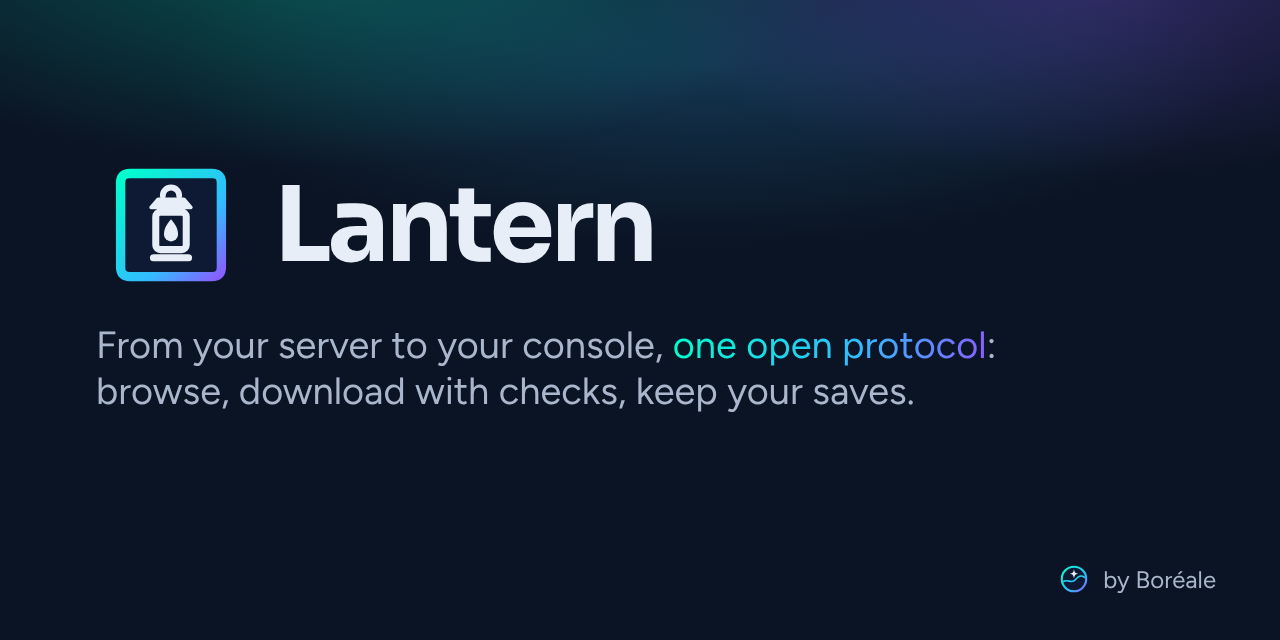
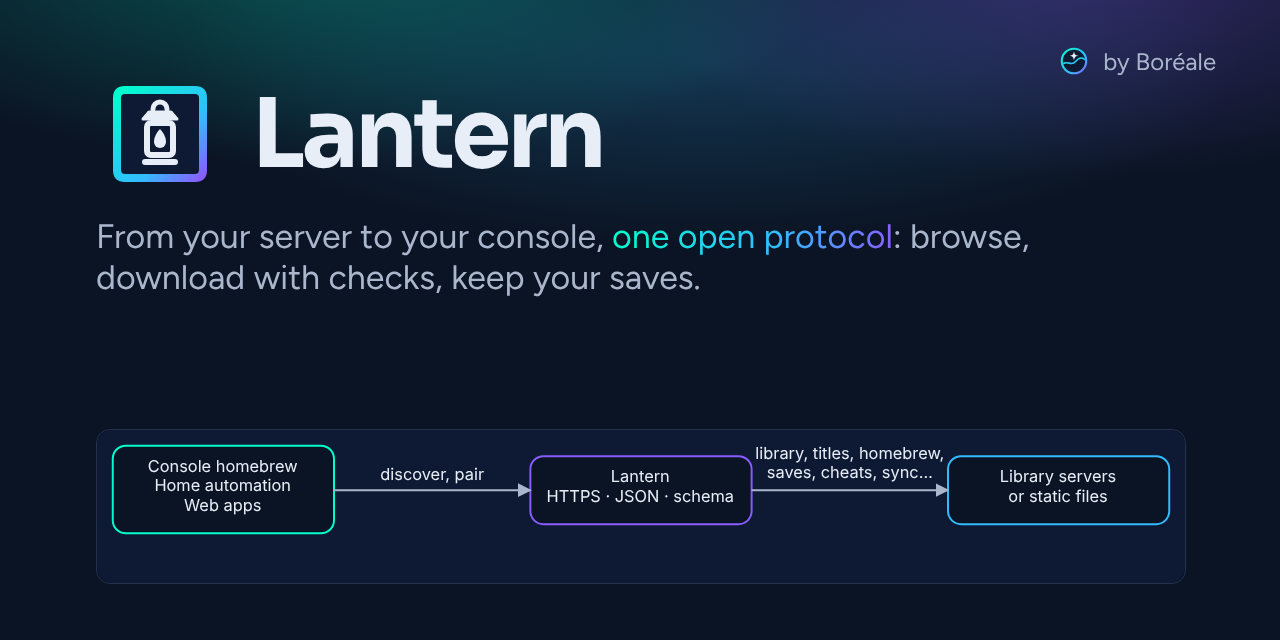
feat(site): put the overview figure in the social preview (#26)
The image of a shared link shows the protocol's three parts (apps, Lantern, library servers) under the title, instead of the sentence alone; site/README.md says how the PNG is made again.

diff --git a/site/social-preview.html b/site/social-preview.html
@@ -3,14 +3,15 @@
 @font-face{font-family:Figtree;src:url("../library/boreale-site/assets/fonts/figtree.woff2")}
 body{margin:0;width:1280px;height:640px;background:#0b1424;color:#e8eef7;font-family:Figtree;overflow:hidden;position:relative}
 .bg{position:absolute;inset:0;background:radial-gradient(70% 60% at 25% -10%,rgba(0,255,204,.28),transparent 60%),radial-gradient(60% 55% at 85% -5%,rgba(138,92,255,.3),transparent 60%),radial-gradient(60% 40% at 55% 10%,rgba(51,187,255,.2),transparent 70%)}
-.c{position:absolute;left:96px;top:150px;display:grid;gap:22px}
+.c{position:absolute;left:96px;top:70px;display:grid;gap:18px}
 .row{display:flex;align-items:center;gap:28px}
-img{width:150px;height:150px}
-h1{font:700 104px Sora;letter-spacing:-.04em;margin:0}
-p{font-size:38px;color:#a9b6cc;margin:0;max-width:1000px}
+.row img{width:128px;height:128px}
+h1{font:700 96px Sora;letter-spacing:-.04em;margin:0}
+p{font-size:34px;color:#a9b6cc;margin:0;max-width:1000px}
+.fig{position:absolute;left:96px;bottom:56px;width:1088px;height:auto;border-radius:14px;border:1px solid #22324f}
 em{font-style:normal;background:linear-gradient(100deg,#00ffcc,#33bbff 60%,#8a5cff);-webkit-background-clip:text;color:transparent}
-.by{position:absolute;right:64px;bottom:44px;display:flex;align-items:center;gap:12px;font-size:24px;color:#a9b6cc}
+.by{position:absolute;right:64px;top:44px;display:flex;align-items:center;gap:12px;font-size:24px;color:#a9b6cc}
 .by img{width:34px;height:34px}
 </style></head><body><div class="bg"></div><div class="c"><div class="row"><img src="../library/boreale-site/assets/marks/lantern.svg"><h1>Lantern</h1></div>
 <p>From your server to your console, <em>one open protocol</em>: browse, download with checks, keep your saves.</p></div>
-<div class="by"><img src="../library/boreale-site/assets/marks/boreale.svg">by Boréale</div></body></html>
+<img class="fig" src="../figures/overview.svg"><div class="by"><img src="../library/boreale-site/assets/marks/boreale.svg">by Boréale</div></body></html>

diff --git a/site/README.md b/site/README.md
@@ -34,3 +34,7 @@ SITE_AXE=axe.min.js python3 library/boreale-site/tools/site_layout.py build   # 
 - No e-mail address anywhere: contact goes through the repository's issues (`check_site.py` checks it).
 
 `.github/workflows/site.yml` checks the submodule out (`submodules: true`), builds and checks the site for each pull request touching it (a move of `library/boreale-site` included), and publishes main's on GitHub Pages (*Settings › Pages › Source: GitHub Actions*; the custom domain is written in `build/CNAME` too).
+
+## The social preview
+
+`site/assets/social-preview.png` (1280 × 640, the image of a link shared on a network) is `site/social-preview.html` drawn by a browser: the lantern mark, the sentence and the home page's overview figure (`figures/overview.svg`). When the sentence or the figure changes, run `python3 tools/diagrams.py write`, open the page at 1280 × 640 (Playwright's `page.screenshot`) and replace the PNG.
